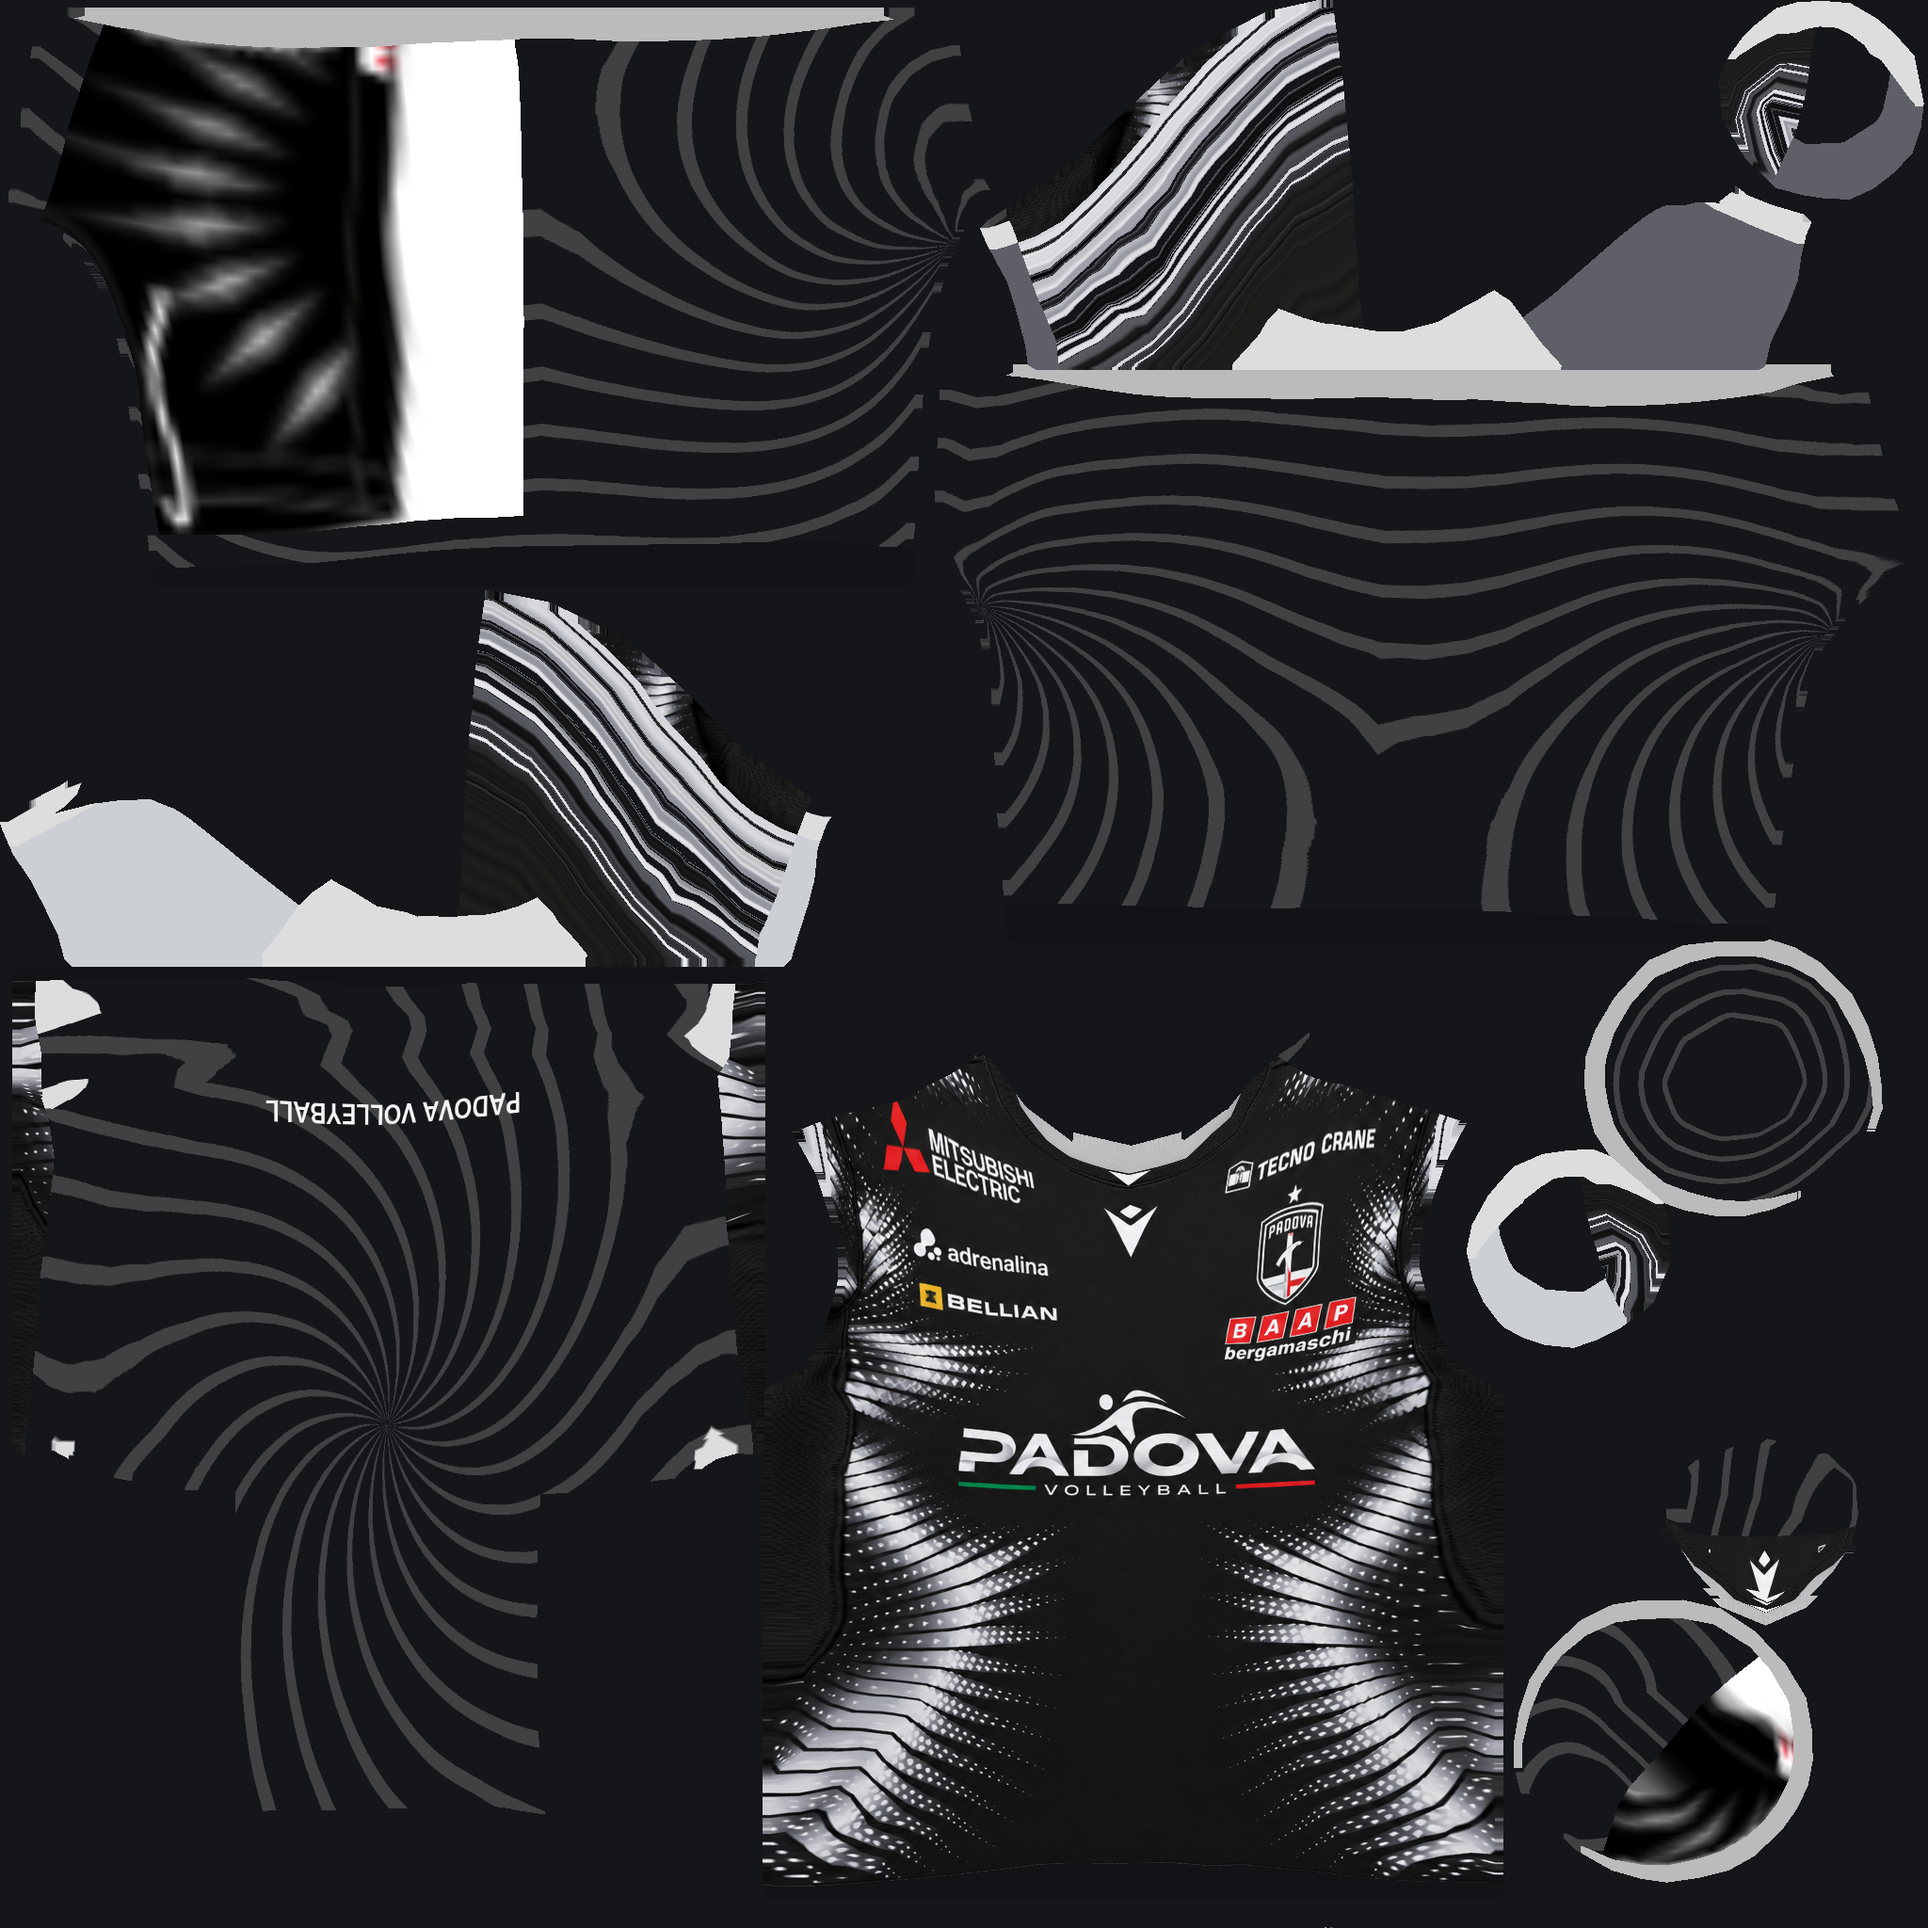
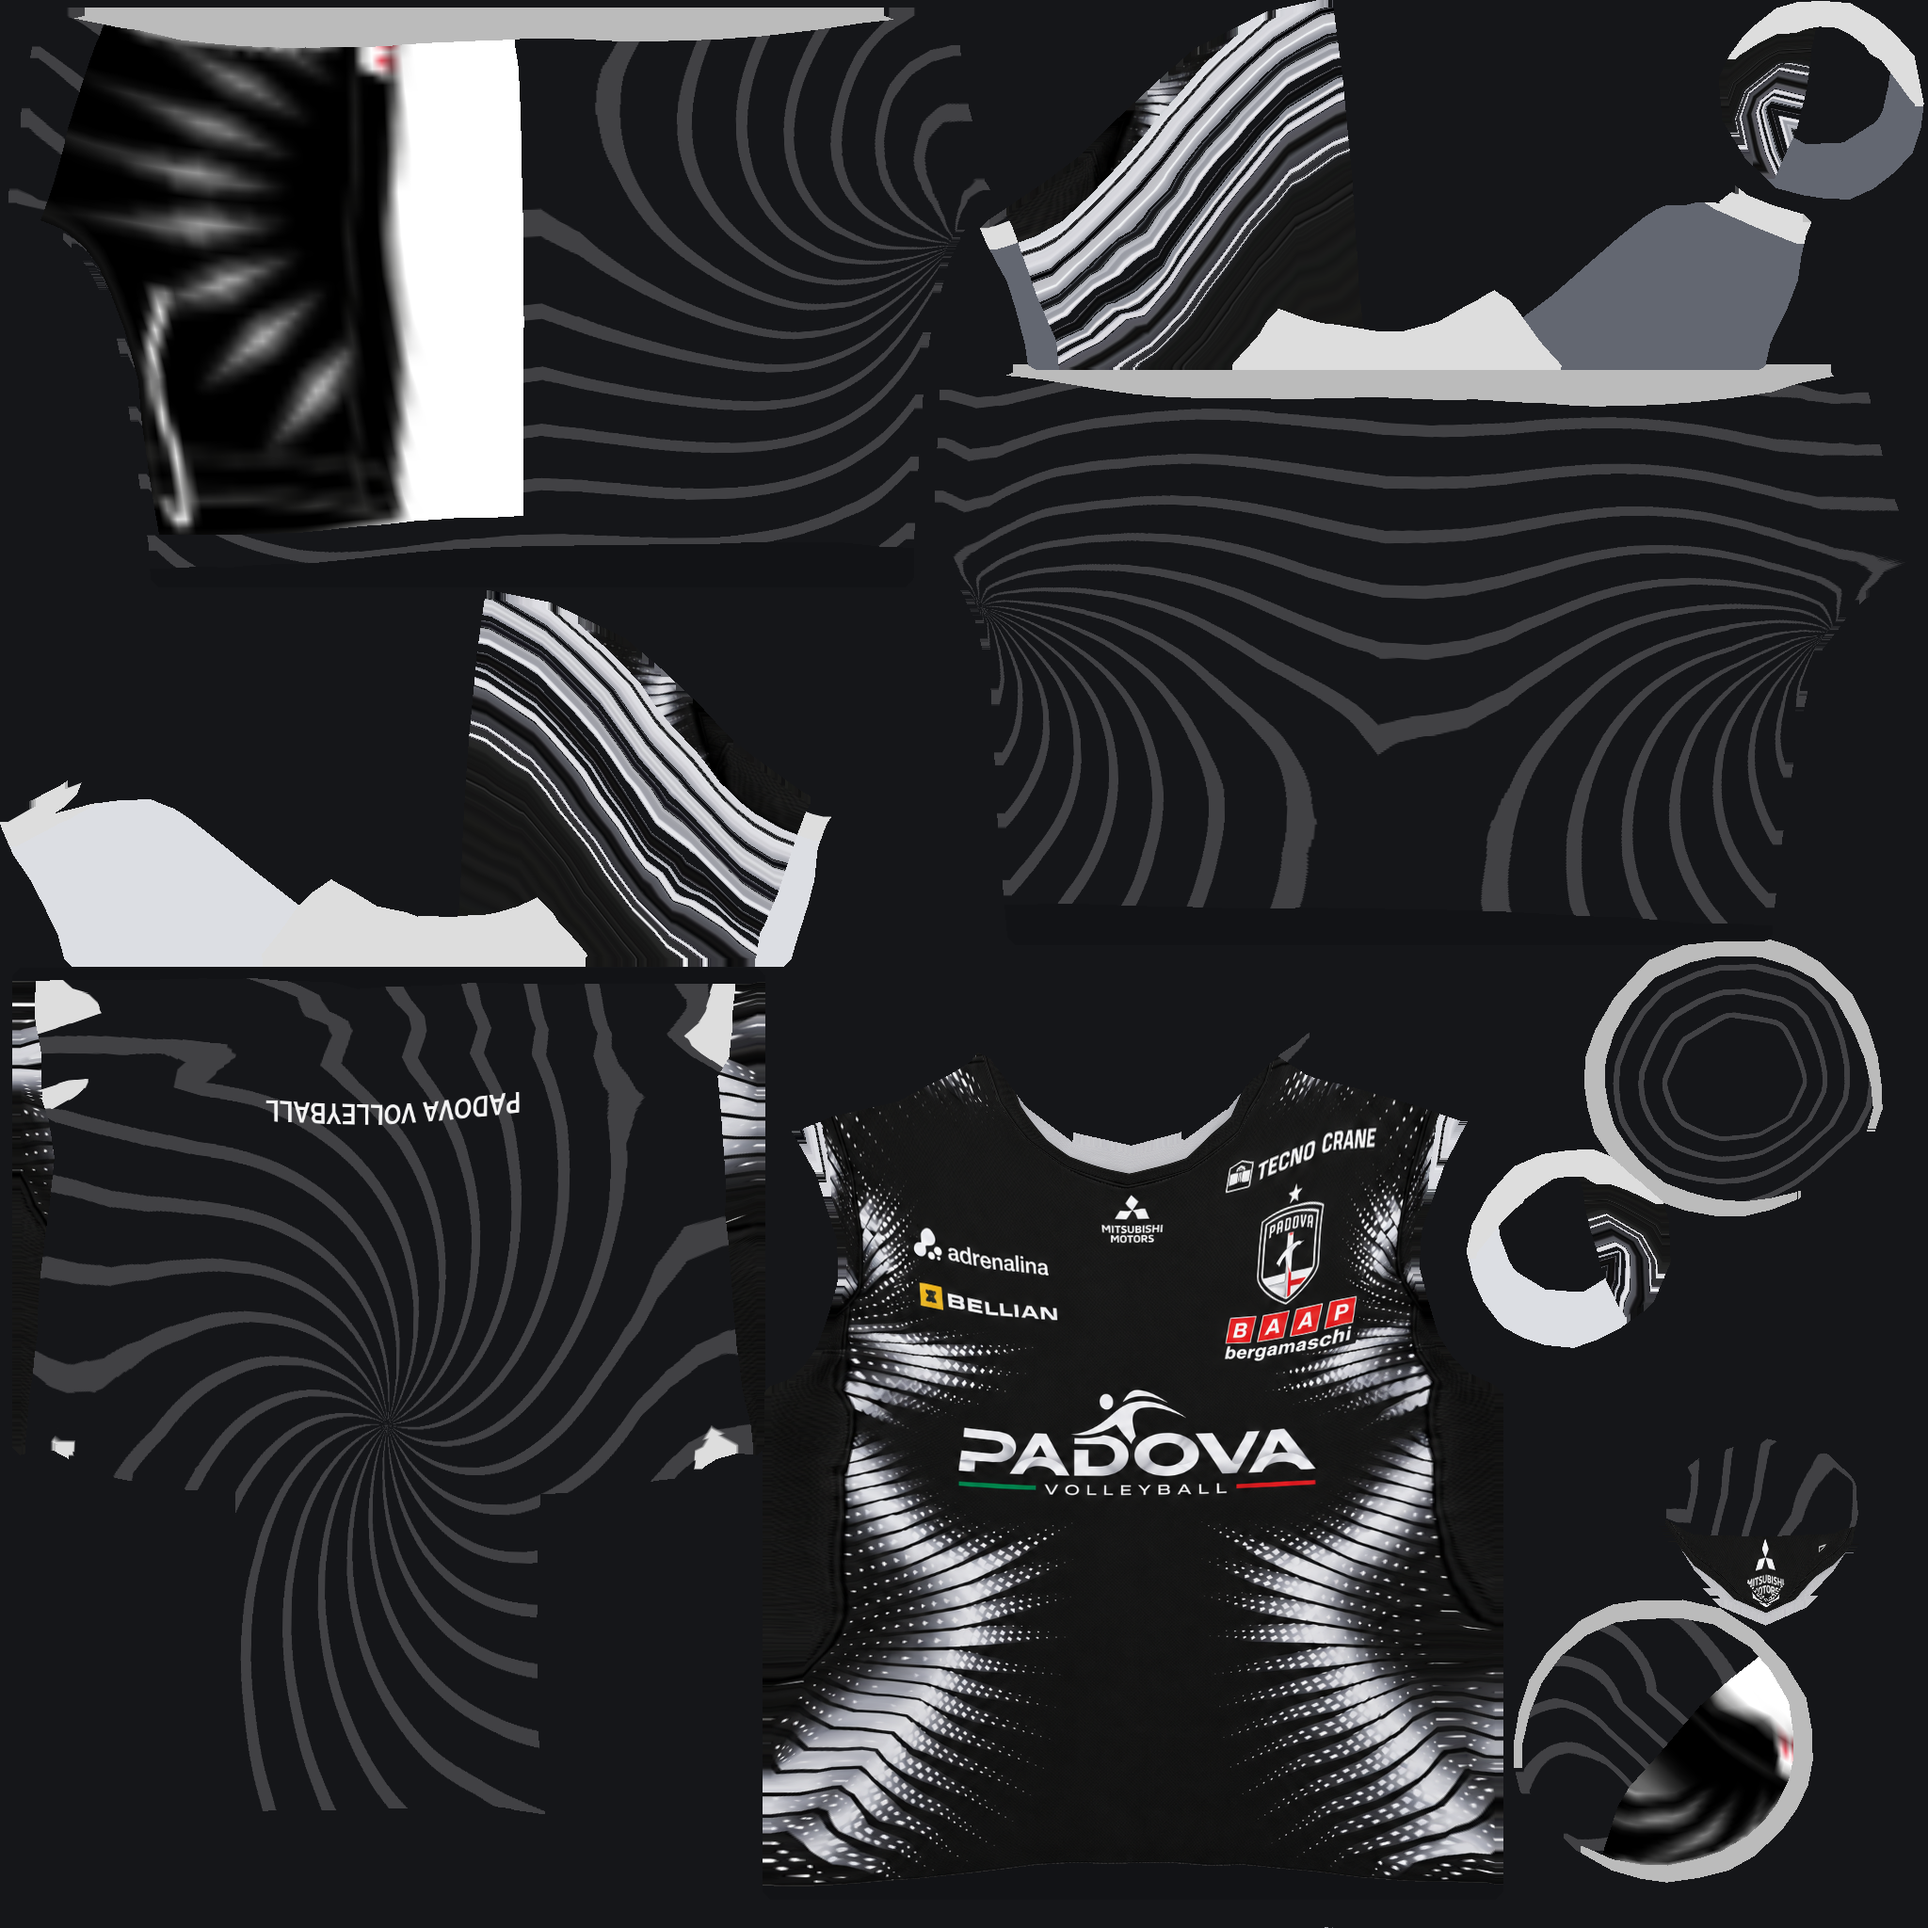
Spike Forever v0.45.1

diff --git a/tools/Build-Kits45.py b/tools/Build-Kits45.py
@@ -109,6 +109,10 @@ def bake(club,source,row,positions,covered):
     variant,bounds,primary,accent,shorts,motif=row
     key=club+'-'+variant
     clean=OUT/(key+'-front.png')
+    revision={'pallavolo-padova-home':'pallavolo-padova-home-v2-front.png','pallavolo-padova-away':'pallavolo-padova-away-v3-front.png'}.get(key)
+    if revision:
+        clean=OUT/revision
+        if not clean.exists(): raise RuntimeError('Missing approved accuracy revision '+str(clean))
     if clean.exists():
         plate=Image.open(clean).convert('RGB'); bounds=(0,0,plate.width,plate.height)
         # Measure the actual garment envelope. Generated plates can include

diff --git a/docs/RELEASE_NOTES_45_1.md b/docs/RELEASE_NOTES_45_1.md
@@ -1,0 +1,9 @@
+# Spike Forever 0.45.1
+
+Revisione dell’accuratezza dei frontali di Padova: rimossi marchi tecnici introdotti erroneamente nelle ricostruzioni, mantenendo il simbolo Mitsubishi coerente con la foto fornita. I frontali approvati sono `assets/art/kits45/pallavolo-padova-home-v2-front.png` e `assets/art/kits45/pallavolo-padova-away-v3-front.png`; gli atlanti attivi li utilizzano al posto delle prime ricostruzioni.
+
+Restano incluse tutte le funzionalità della [v45](RELEASE_NOTES_45.md): 32 divise delle 12 squadre, pantaloncini, nome/numero dinamici, cambio del libero e salvataggi locali conservati. Nessuna modifica a gameplay, controlli, animazioni o fisica.
+
+[Anteprima aggiornata di Padova](kits45-pallavolo-padova.png) · [Prompt delle ricostruzioni, strumento integrato image_gen](kits45-imagegen-prompts.json) · [Prompt delle correzioni](kits45-correction-prompts.json).
+
+Rigenerati e verificati i tre atlanti di Padova; nuovamente verificati hash, risoluzione, tutti gli abbinamenti del libero, conservazione dei pesi/UV e cache delle stampe con `Test-Kits45.gd`. La verifica di 144 combinazioni e il confronto prestazioni della v45 rimangono applicabili: la revisione modifica solo due immagini frontali e la loro proiezione UV.

diff --git a/README.md b/README.md
@@ -1,5 +1,7 @@
 # Spike Forever
 
+**Versione 0.45.1:** revisione dei marchi delle maglie di Padova, conservando le 32 divise, la stampa dei giocatori e gli abbinamenti del libero introdotti nella v45. [Dettagli](docs/RELEASE_NOTES_45_1.md).
+
 **Versione 0.45.0:** divise delle 12 squadre ricostruite dai riferimenti forniti: 32 varianti casa, trasferta e libero, pantaloncini coordinati, nome e numero stampati sul retro e aggiornati dai dati locali. Libero con divisa opposta quando manca una variante dedicata. [Anteprime, fonti e verifiche](docs/RELEASE_NOTES_45.md).
 
 **Versione 0.44.0:** primo tempo e finta anticipati, corsa e salto in avanzamento anche per pipe e opposto di seconda linea. Muro con contatto continuo sulle mani e risposte diverse tra muro pieno, tocco giocabile e deviazione esterna. Meno ricezioni di la e attacchi CPU ordinari all'82-96,5%. [Dettagli e verifiche](docs/RELEASE_NOTES_44.md).
